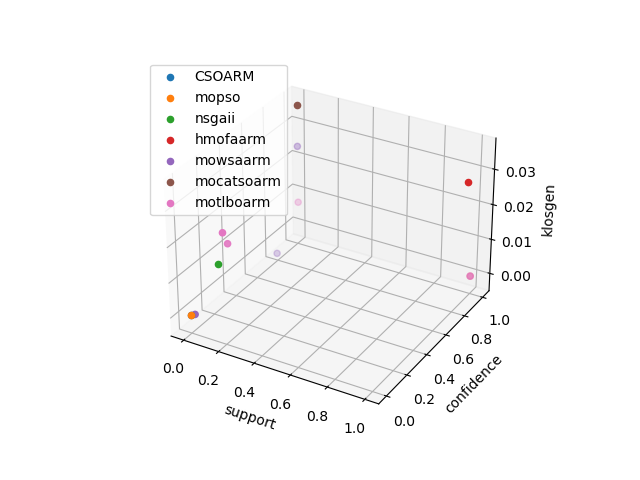
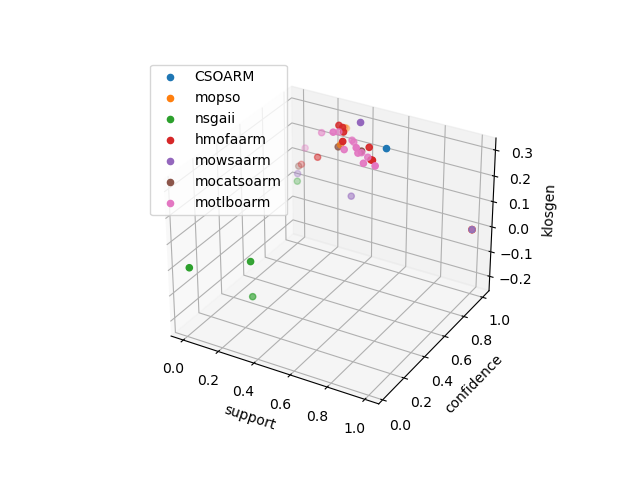
add picture for Readme

diff --git a/main.py b/main.py
@@ -20,7 +20,7 @@ criterionList = ['scores','execution time']
 algorithmNameList = ['CSOARM','mopso','nsgaii','hmofaarm','mowsaarm','mocatsoarm','motlboarm']
 
 perf = Performances(algorithmNameList,criterionList,objectiveNames)
-data = pd.read_csv('Data/risk.csv')
+data = pd.read_csv('Data/congress.csv')
 data = data.to_numpy()
 mopso = MOPSO(data.shape[1],populationSize,nbIteration,len(objectiveNames),objectiveNames)
 #mobarm = MOBARM(data.shape[1],populationSize,nbIteration,10,len(objectiveNames),objectiveNames,save=True,display=True,path='Figures/MOBARM/')
